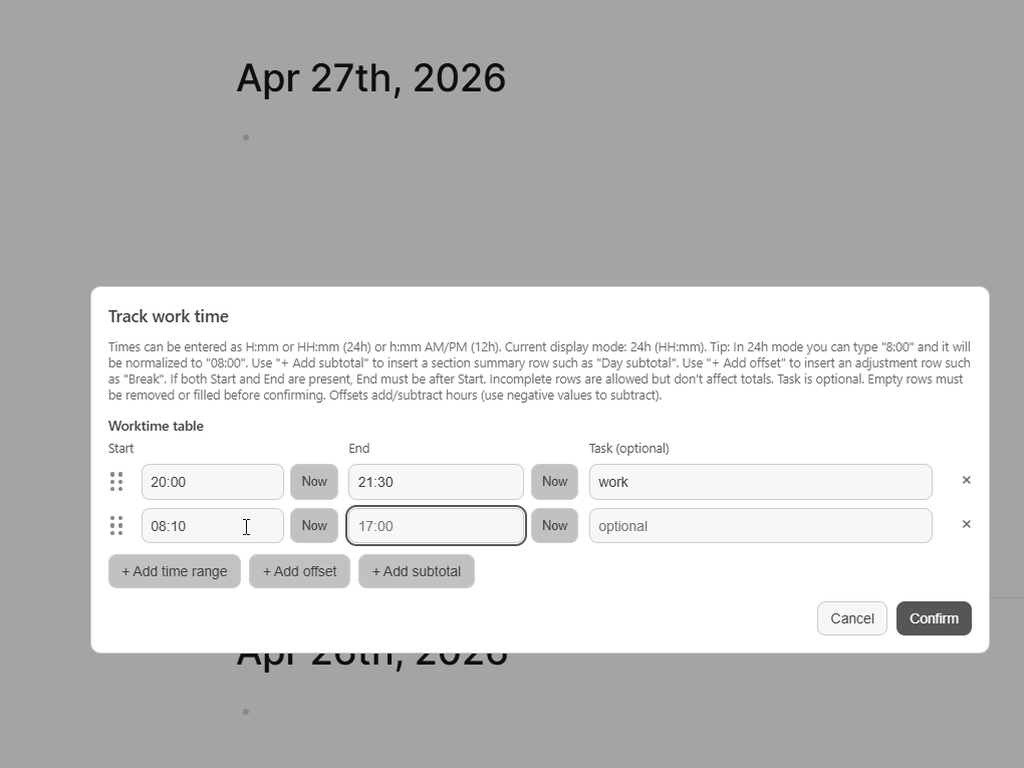
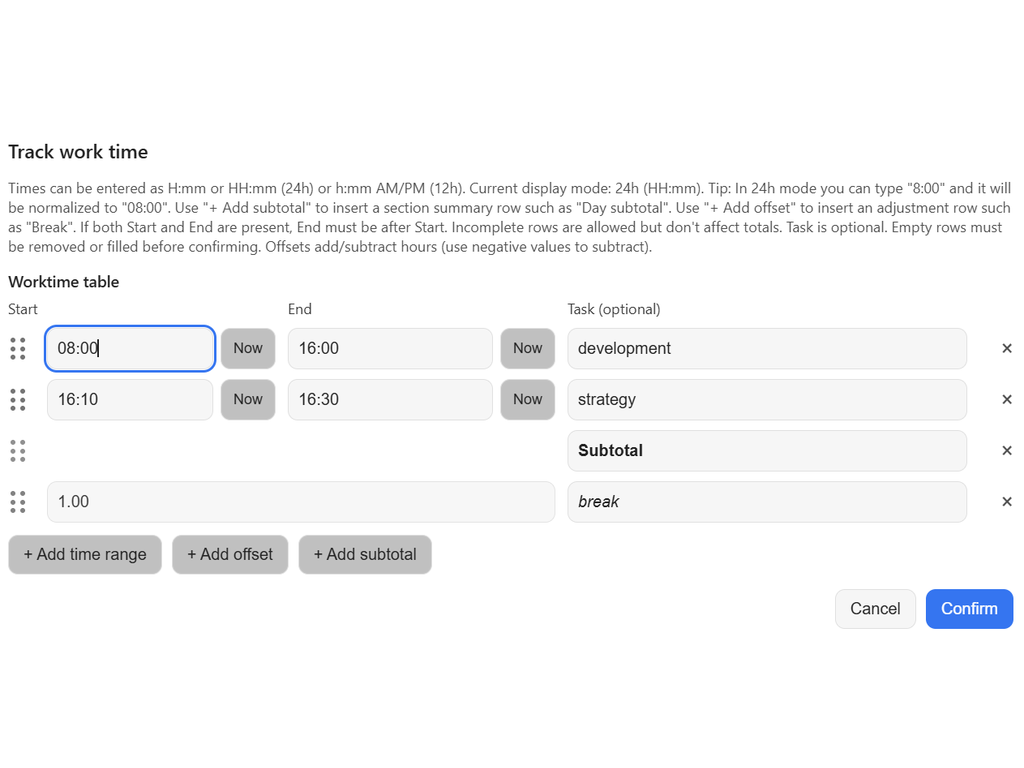
README: add screenshots, use real SiYuan preview

diff --git a/README.md b/README.md
@@ -3,6 +3,12 @@ A SiYuan plugin for creating and editing worktime tables directly in your notes 
 
 Sibling of [logseq-worktime-table](https://github.com/wiegi/logseq-worktime-table). Both plugins share the same calculation core.
 
+![Worktime table dialog](docs/dialog.png)
+
+The dialog produces a regular SiYuan table:
+
+![Resulting worktime table](docs/table.png)
+
 ## Features
 * Create worktime tables from the slash menu
 * Record multiple entries with task, start time, end time, and duration
